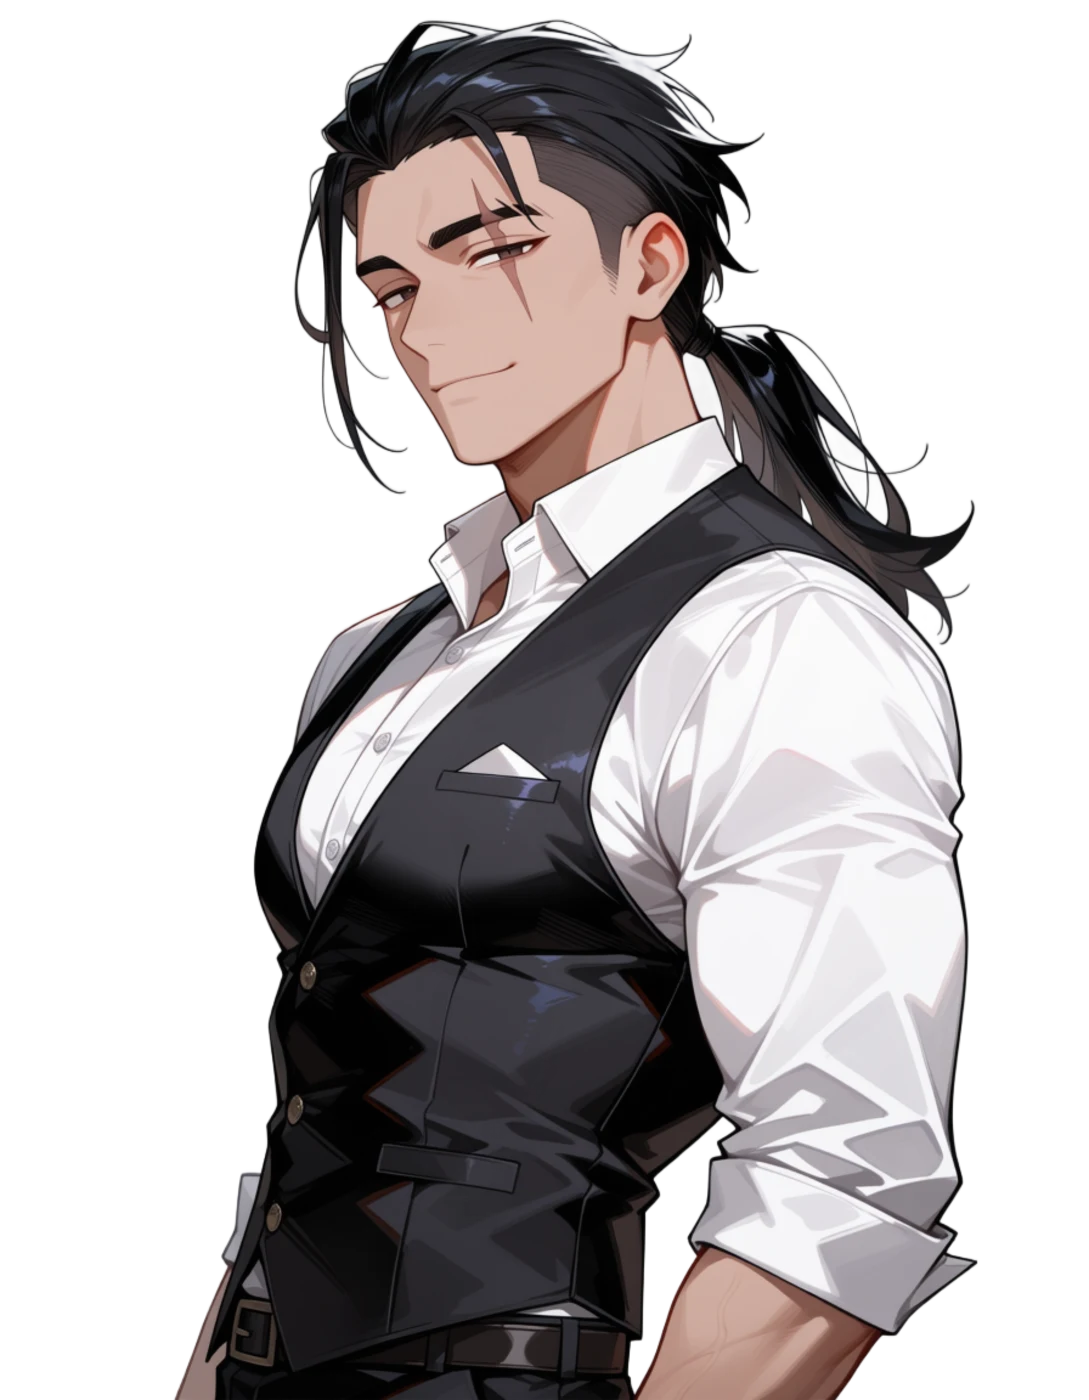
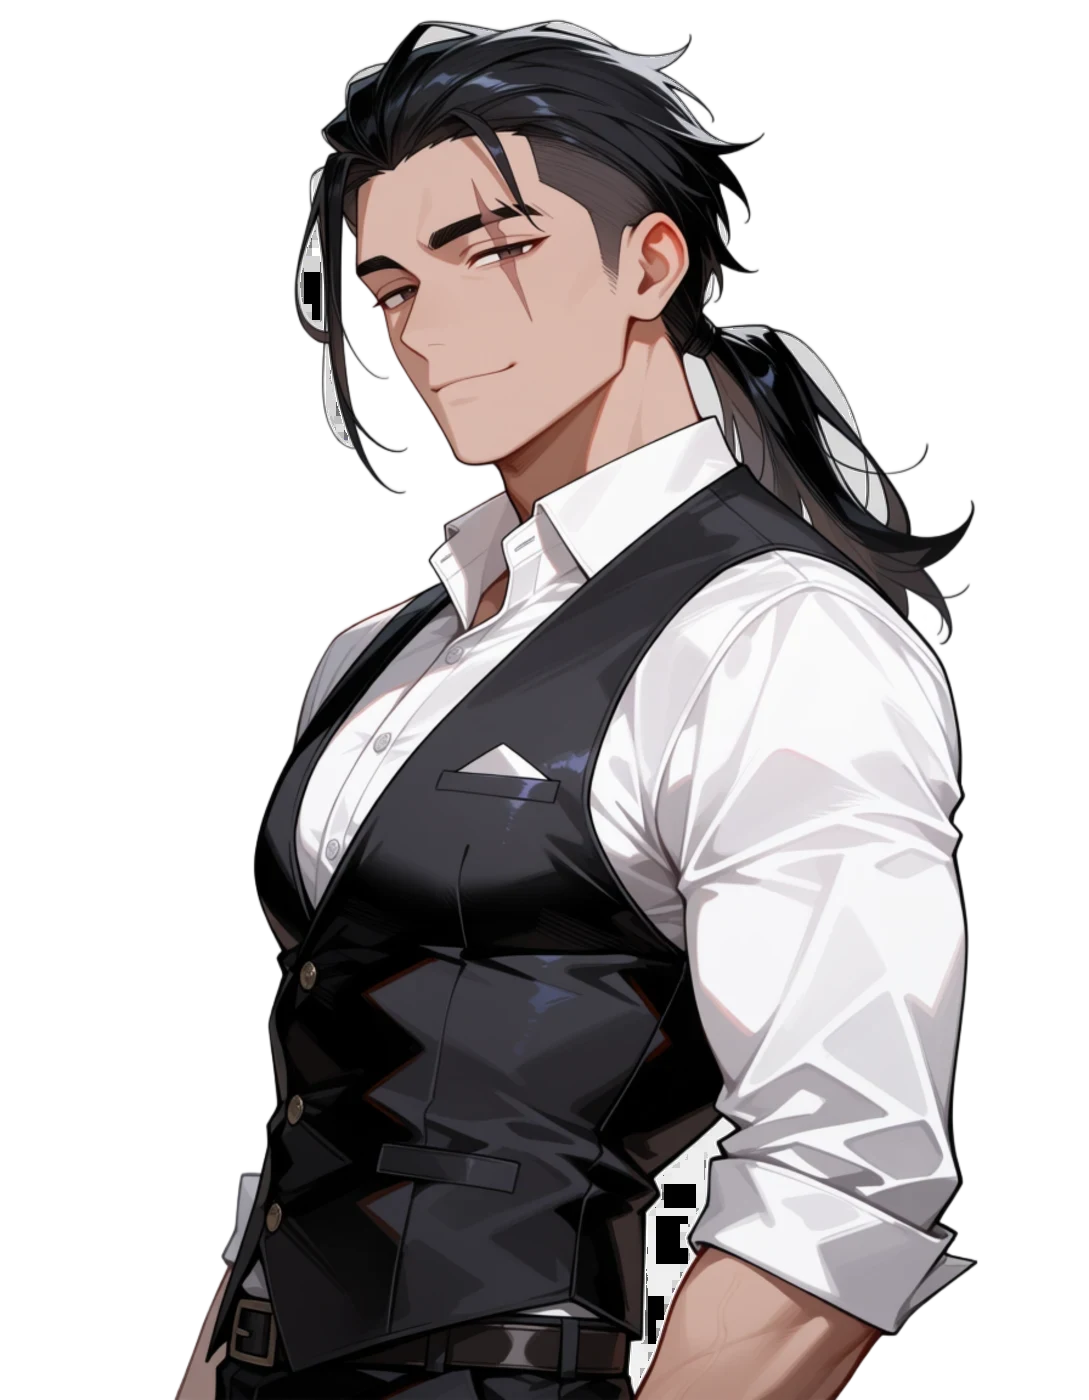
Final Emi sprites (round 3, RDBT seed 41) and hole-free cutouts for all sprites

diff --git a/tools/alpha_holes.py b/tools/alpha_holes.py
@@ -1,0 +1,41 @@
+"""Find see-through holes inside cutout sprites, and optionally fill them.
+A hole = pixels inside the filled silhouette (largest component) whose alpha is well below opaque.
+Usage: python3 tools/alpha_holes.py check <files...>
+       python3 tools/alpha_holes.py fill <in.png> <out.png>   (alpha = max(alpha, filled silhouette eroded by 3px))"""
+import sys
+import numpy as np
+from PIL import Image
+from scipy import ndimage
+
+def silhouette(a):
+    solid = a > 128
+    lab, n = ndimage.label(solid)
+    if n == 0:
+        return solid
+    sizes = ndimage.sum(solid, lab, range(1, n + 1))
+    main = lab == (np.argmax(sizes) + 1)
+    return ndimage.binary_fill_holes(main)
+
+def check(path):
+    a = np.array(Image.open(path).convert('RGBA'))[:, :, 3]
+    sil = silhouette(a)
+    inner = ndimage.binary_erosion(sil, iterations=4)  # ignore the soft outer edge
+    holes = inner & (a < 200)
+    lab, n = ndimage.label(holes)
+    big = [s for s in ndimage.sum(holes, lab, range(1, n + 1))] if n else []
+    return int(holes.sum()), int(sum(1 for s in big if s > 40)), 100 * holes.sum() / max(1, inner.sum())
+
+def fill(src, dst):
+    im = np.array(Image.open(src).convert('RGBA'))
+    a = im[:, :, 3]
+    sil = ndimage.binary_erosion(silhouette(a), iterations=3)
+    im[:, :, 3] = np.maximum(a, (sil * 255).astype(np.uint8))
+    Image.fromarray(im).save(dst)
+
+if __name__ == '__main__':
+    if sys.argv[1] == 'check':
+        for f in sys.argv[2:]:
+            px, blobs, pct = check(f)
+            print(f'{"HOLES" if blobs else "ok   "} {f.split("/")[-1]:32} holes_px={px:6d} blobs>40px={blobs:3d} {pct:.2f}%')
+    else:
+        fill(sys.argv[2], sys.argv[3])

diff --git a/tools/emi2.py b/tools/emi2.py
@@ -28,6 +28,8 @@ EXPR = {
     'surprised': 'surprised, eyebrows raised, mouth slightly open',
     'teasing': 'teasing playful smirk, one eyebrow raised, arms crossed',
     'neutral': 'calm neutral expression, relaxed mouth',
+    'embarrassed': 'embarrassed, blushing, awkward smile, looking slightly away',
+    'worried': 'worried, eyebrows drawn together, lips pressed, concerned',
 }
 MODELS = {'rdbt': 'rdbtAnima.safetensors', 'nova': 'novaAnimeAM_v5.safetensors'}
 
@@ -44,6 +46,8 @@ def go(path, prompt, seed, model):
 
 
 mode = sys.argv[1] if len(sys.argv) > 1 else 'full'
+if mode == 'final':
+    pass
 ONLY = sys.argv[2:]
 for tag, model in MODELS.items():
     if ONLY and tag not in ONLY:
@@ -56,3 +60,16 @@ for tag, model in MODELS.items():
     if mode in ('full', 'expr'):
         for e, ed in EXPR.items():
             go(os.path.join(d, f'work-{e}.png'), f'{Q}, 1girl, solo, {BASE}, {WORK}, {ed}, {FRAME}', 41, model)
+
+
+def final():
+    """Final Emi: round-3 prompt, RDBT seed 41. Writes art/slice/ch/emi-<expr>.png."""
+    ch = os.path.join(os.path.dirname(__file__), '..', 'art', 'slice', 'ch')
+    model = MODELS['rdbt']
+    for e, ed in EXPR.items():
+        go(os.path.join(ch, f'emi-{e}.png'), f'{Q}, 1girl, solo, {BASE}, {WORK}, {ed}, {FRAME}', 41, model)
+    for e in ('smile', 'neutral'):
+        go(os.path.join(ch, f'emi-dress-{e}.png'), f'{Q}, 1girl, solo, {BASE}, {DRESS}, {EXPR[e]}, {FRAME}', 41, model)
+
+if mode == 'final':
+    final()
